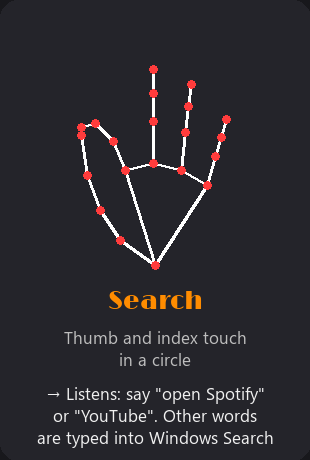
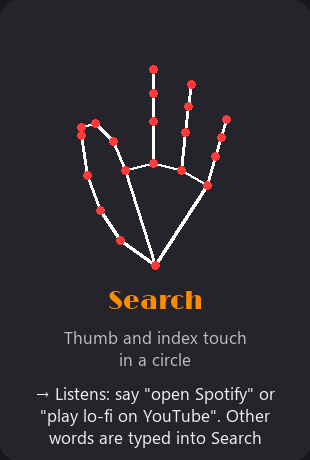
Voice: play YouTube videos (opens the top result in Opera)

Changed region(s): [[0.1161, 0.8217, 0.9, 0.9739]]

diff --git a/src/commands.py b/src/commands.py
@@ -2,6 +2,7 @@
 
 - "open Spotify", "launch Discord": starts an installed app
 - "youtube", "open reddit", "youtube.com": opens the site in Opera
+- "play lo-fi music on youtube", "watch cat videos": opens the top YouTube video in Opera
 - "search youtube for lo-fi music", "google weather in London": searches a site in Opera
 - anything else: typed into Windows Search (the caller's fallback)
 """
@@ -12,9 +13,10 @@ import re
 import subprocess
 import threading
 import urllib.parse
+import urllib.request
 from collections import namedtuple
 
-Action = namedtuple("Action", "kind value label")  # kind: "url" | "app" | "type"
+Action = namedtuple("Action", "kind value label")  # kind: "url" | "app" | "video"
 
 _LOCAL = os.environ.get("LOCALAPPDATA", "")
 OPERA_PATHS = [
@@ -62,6 +64,10 @@ OPEN_RE = re.compile(r"^(?:please\s+)?(?:open|launch|start|run|go to|goto|take m
 IN_OPERA_RE = re.compile(r"\s+(?:in|on|with|using)\s+opera(?:\s+browser)?$")
 SEARCH_ON_RE = re.compile(r"^(?:search|find|look up|look for)\s+(?:for\s+)?(.+?)\s+(?:on|in)\s+(.+)$")
 SEARCH_SITE_FOR_RE = re.compile(r"^(?:search|find|look up)\s+(.+?)\s+for\s+(.+)$")
+PLAY_ON_RE = re.compile(r"^(?:play|watch|open|put on)\s+(.+?)\s+(?:on|in|from)\s+(?:youtube|you tube|yt)$")
+YT_PLAY_RE = re.compile(r"^(?:youtube|you tube|yt)\s+(?:play|watch)\s+(.+)$")
+PLAY_RE = re.compile(r"^(?:play|watch)\s+(?:the\s+)?(.+)$")
+YT_QUERY_RE = re.compile(r"^youtube\s+(.+)$")  # "yt cat videos"
 GOOGLE_RE = re.compile(r"^google\s+(?:for\s+)?(.+)$")
 DOMAIN_RE = re.compile(r"[a-z0-9-]+(?:\.[a-z0-9-]+)*\.(?:com|org|net|io|gov|edu|co|tv|bg|uk|de|fr|me|app|dev|ai)(?:/\S*)?")
 
@@ -159,8 +165,15 @@ def _search_url(site, query):
 def plan(text):
     """Decide what to do with the spoken text. None means "type it into Windows Search"."""
     said = IN_OPERA_RE.sub("", normalize(text))
+    said = re.sub(r"\b(?:yt|you tube)\b", "youtube", said)  # "yt" and "you tube" mean YouTube
     if not said:
         return None
+
+    for regex in (PLAY_ON_RE, YT_PLAY_RE, PLAY_RE, YT_QUERY_RE):  # "play X on youtube", "watch X"
+        m = regex.match(said)
+        if m:
+            query = re.sub(r"\s+(?:on|in|from)\s+youtube$", "", m.group(1)).strip()
+            return Action("video", query, "Playing on YouTube")
 
     m = GOOGLE_RE.match(said)
     if m:
@@ -189,11 +202,33 @@ def plan(text):
     return None
 
 
+def youtube_first_video(query):
+    """URL of the top YouTube result for the query, or None if it cannot be found."""
+    url = "https://www.youtube.com/results?search_query=" + urllib.parse.quote_plus(query)
+    request = urllib.request.Request(url, headers={
+        "User-Agent": "Mozilla/5.0 (Windows NT 10.0; Win64; x64) AppleWebKit/537.36 "
+                      "(KHTML, like Gecko) Chrome/124.0 Safari/537.36",
+        "Accept-Language": "en-US,en;q=0.9",
+        "Cookie": "CONSENT=YES+1; SOCS=CAI",  # skip the cookie-consent page
+    })
+    try:
+        with urllib.request.urlopen(request, timeout=8) as page:
+            html = page.read().decode("utf-8", "replace")
+    except Exception as error:
+        print(f"Could not look up the video: {error}")
+        return None
+    m = re.search(r'"videoRenderer":\{"videoId":"([\w-]{11})"', html)
+    return "https://www.youtube.com/watch?v=" + m.group(1) if m else None
+
+
 def opera_path():
     return next((p for p in OPERA_PATHS if os.path.exists(p)), None)
 
 
 def execute(action):
+    if action.kind == "video":  # top result, or the search page if it cannot be found
+        video = youtube_first_video(action.value)
+        action = Action("url", video or _search_url("youtube", action.value), action.label)
     if action.kind == "url":
         opera = opera_path()
         if opera:

diff --git a/src/help_screen.py b/src/help_screen.py
@@ -190,7 +190,7 @@ def build_help_image():
          "Left to right: next app\nRight to left: previous app\nIn Task View: moves the pick",
          swipe, fonts)
     tile(draw, 0, 1, "Search", "Thumb and index touch\nin a circle",
-         "Listens: say \"open Spotify\"\nor \"YouTube\". Other words\nare typed into Windows Search", single(SEARCH_HAND), fonts)
+         "Listens: say \"open Spotify\" or\n\"play lo-fi on YouTube\". Other\nwords are typed into Search", single(SEARCH_HAND), fonts)
     tile(draw, 1, 1, "Middle Finger", "Only the middle finger up",
          "Shows a rude reply\non screen", single(MIDDLE_HAND), fonts)
     tile(draw, 2, 1, "Help", "Thumb, index and pinky up\non both hands",

diff --git a/README.md b/README.md
@@ -27,7 +27,8 @@ The Search gesture listens to your microphone. Say something, pause, and the app
 | You say | What happens |
 |---|---|
 | "YouTube", "open Reddit", "go to GitHub", "youtube.com" | Opens the site in **Opera** |
-| "search YouTube for lo-fi music", "search cats on YouTube" | Searches that site in Opera |
+| "play lo-fi music on YouTube", "watch cat videos", "YT daft punk" | Finds the top YouTube result and opens that **video** in Opera |
+| "search YouTube for lo-fi music", "search cats on YouTube" | Opens the search results (not a video) in Opera |
 | "google weather in London" | Google search in Opera |
 | "open Spotify", "launch Discord", "open calculator" | Starts that installed app |
 | anything else, like "weather in London" | Opens Windows Search and types it for you. Make the Enter sign to run it |
